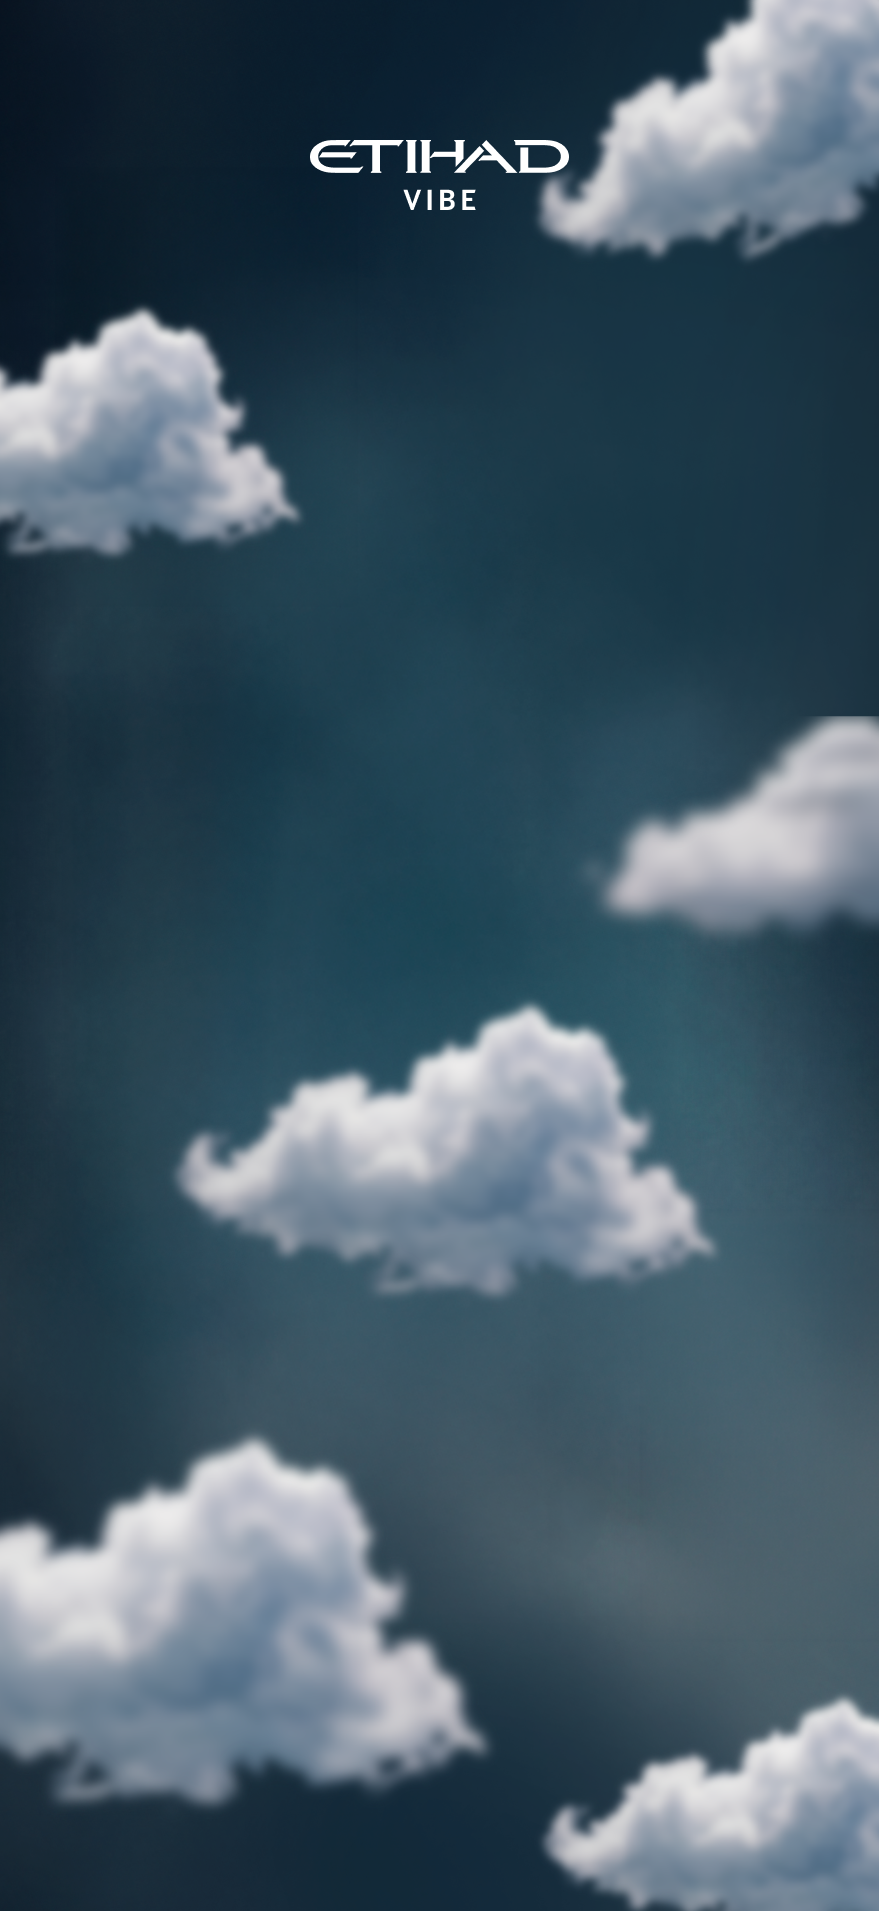
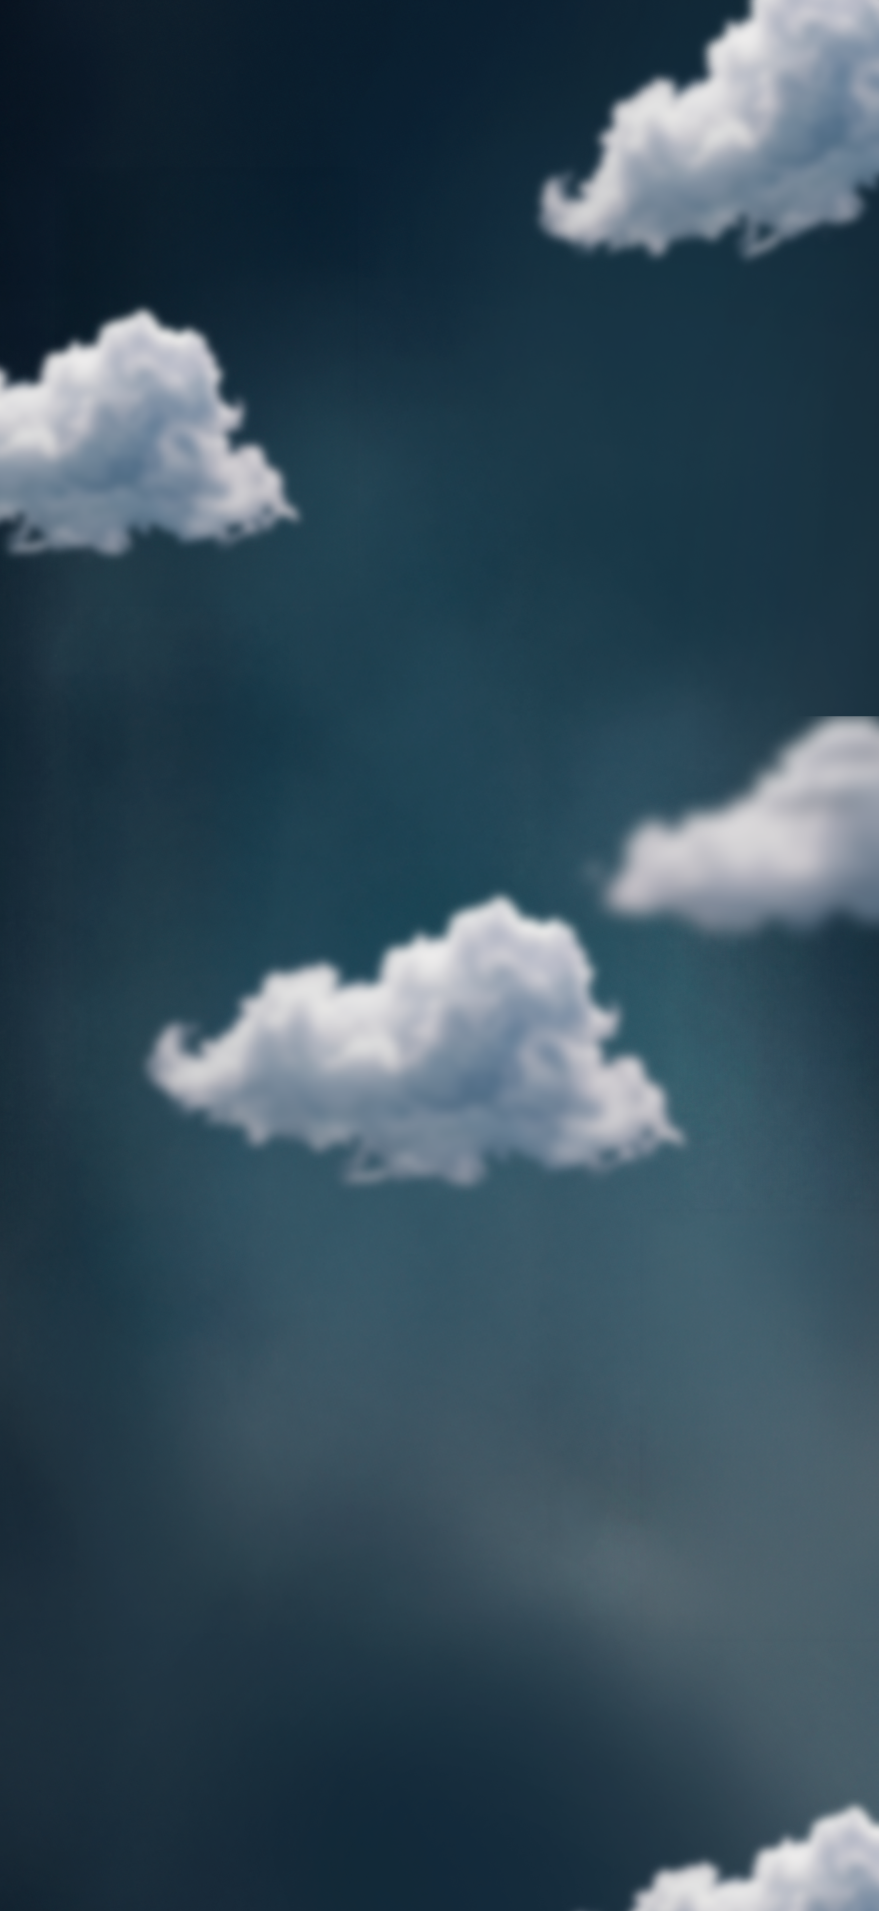
New BG

diff --git a/src/style.css b/src/style.css
@@ -20,6 +20,12 @@
   font-weight: 500;
   font-display: swap;
 }
+@font-face {
+  font-family: 'EtihadAltis';
+  src: url('/fonts/EtihadAltis-Light_V3.ttf') format('truetype');
+  font-weight: 300;
+  font-display: swap;
+}
 
 :root {
   /* Design aspect of your exported artwork (width / height). iPhone 16/17 Pro. */
@@ -46,10 +52,10 @@
   --done: #e8634a;
   --done-dark: #d8503a;
 
-  --panel-bg: rgba(228, 237, 242, 0.5);
-  --panel-border: rgba(255, 255, 255, 0.45);
-  --panel-heading: #2f444d;
-  --tile-bg: #ffffff;
+  --panel-bg: rgba(18, 32, 41, 0.45);
+  --panel-border: rgba(255, 255, 255, 0.12);
+  --panel-heading: #ffffff;
+  --tile-bg: #c9d2d8;
 
   --placed: 15cqw;      /* on-stage size of a dropped sticker */
 
@@ -203,8 +209,8 @@ body {
   background: var(--panel-bg);
   border: 1px solid var(--panel-border);
   border-radius: 6cqw;
-  backdrop-filter: blur(14px) saturate(120%);
-  -webkit-backdrop-filter: blur(14px) saturate(120%);
+  backdrop-filter: blur(6px);
+  -webkit-backdrop-filter: blur(6px);
   box-shadow: 0 2cqw 6cqw rgba(0, 0, 0, 0.18);
 }
 .sticker-panel h2 {
@@ -212,9 +218,9 @@ body {
   text-align: center;
   font-size: 4cqw;
   line-height: 1.3;
-  font-weight: 500;
+  font-weight: 300;
   font-family: var(--font);
-  color: #fff;
+  color: var(--panel-heading);
 }
 
 .tray-row { display: flex; align-items: center; gap: 2cqw; }

diff --git a/src/main.js b/src/main.js
@@ -135,7 +135,6 @@ function renderStickerPage() {
 
         <div class="actions">
           <button id="resetBtn" class="btn btn-reset">Reset</button>
-          <button id="doneBtn"  class="btn btn-done">Done</button>
         </div>
       </div>
     </div>
@@ -193,12 +192,6 @@ function renderStickerPage() {
   });
 
   setupTrayNav();
-
-  document.getElementById('doneBtn').addEventListener('click', () => {
-    sendSafe('save');
-    markCompleted();
-    renderThanksPage();
-  });
 
   document.getElementById('resetBtn').addEventListener('click', () => {
     sendSafe('reset');